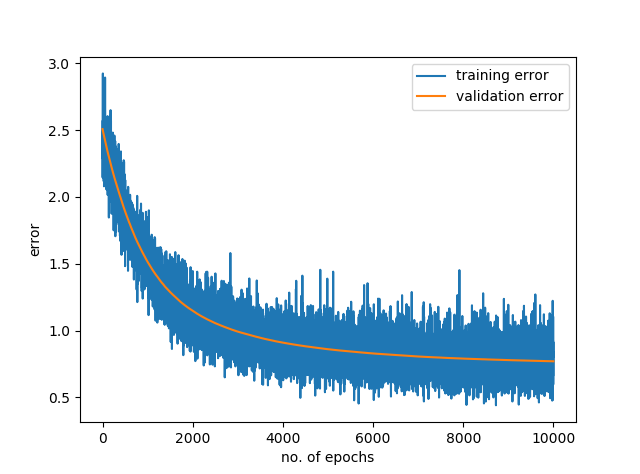
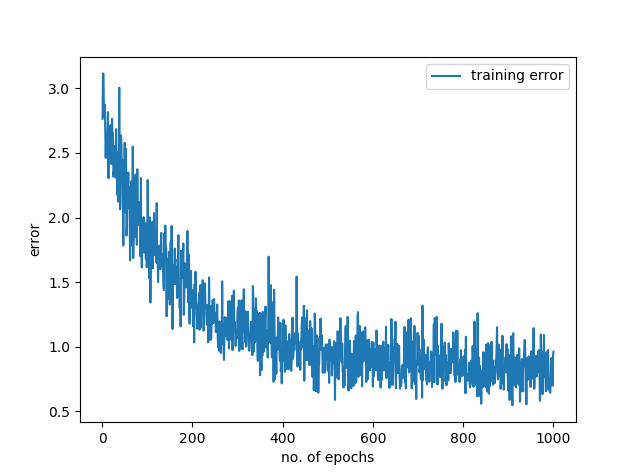
updates

diff --git a/assignment1/neural_net.py b/assignment1/neural_net.py
@@ -1,5 +1,5 @@
 import numpy as np
-import scipy.io as sio
+from scipy.io import loadmat
 import matplotlib.pyplot as plt
 
 class Layer:
@@ -186,7 +186,7 @@ class NeuralNetwork:
 		if(reg == 'l2'):
 			sum = 0
 			for i in range(self.n_layers):
-				sum  = sum+epsilon+ l*sum
+				sum  = sum + l*sum
 		elif(reg =='l1'):
 			sum = 0
 			for i in range(self.n_layers):
@@ -203,7 +203,7 @@ class NeuralNetwork:
 			delta1 = delta
 			o = o2
 
-	def train(self, X, y, batch = 32, n_epoch = 5, l = 0, reg = "none"):
+	def train(self, X, y, batch = 32, n_epoch = 5, l = 0, reg = "none", verbose=True):
 		#t_size = int(X.shape[0]*0.8)
 		t_size = X.shape[0]
 		X_train = X[:t_size, :]
@@ -228,7 +228,7 @@ class NeuralNetwork:
 			outputs = self.forwardPass(input_X.T, train = True)
 			# print (outputs)
 			self.backProp(input_y.T, outputs, reg=reg, l=l)
-			if (i%10 == 0):
+			if (i%10 == 0 and verbose):
 				train_error[int(i/10)], _ = self.costFunc(input_y.T, outputs, 0, 'none')
 				#train_acc[i] = accuracy(input_y, outputs.T)
 				#outputs_test = self.forwardPass(X_test.T, train = False)
@@ -272,7 +272,7 @@ class Dropout(Layer):
 			self.drop = self.drop.reshape(self.drop.shape[0],1)
 			return np.multiply(self.activate(self.z), self.drop)
 		else:
-			return self.activate(self.z) * self.prob
+			return self.activate(self.z) * (1-self.prob)
 
 	def backprop(self, delta1, rate, out, reg = "none", l = 0, cost = 'crossent'): 
 		delta = np.multiply(delta1, self.act_deriv(self.z, out)) # this is the real delta
@@ -293,7 +293,7 @@ def make_onehot(y):
 	return yoh
 
 def load_data(path):
-	data = sio.loadmat(path)
+	data = loadmat(path)
 	total_training_images = data['dataset'][0][0][0][0][0][0][:].astype(np.float32)
 	total_training_labels = data['dataset'][0][0][0][0][0][1][:]
 	classes = [10, 13, 16, 17, 18, 19, 20, 23, 24]
@@ -331,10 +331,10 @@ if __name__ == '__main__':
 	m = 9 # no of classes
 	lrate = 1e-3
 
-	neurons = [Dropout(0.5, D, 128, 'l_relu', alpha=0.01), Layer(128 ,m, 'softmax')]
-	NN = NeuralNetwork(2, D, m, cost = 'crossent', layers = neurons, rate = lrate)
+	neurons = [Layer(D ,m, 'softmax')]
+	NN = NeuralNetwork(1, D, m, cost = 'crossent', layers = neurons, rate = lrate)
 	labels, images, test_labels, test_images = load_data('assignment1/emnist-balanced.mat')
-	NN.train(images, labels, n_epoch = 10000, batch= 20)
+	NN.train(images, labels, n_epoch = 10000, batch= 30, reg="l2", l=0.1)
 	test_out = NN.predict(test_images)
 	error = accuracy(test_out, test_labels)
 	print (error,"%")

diff --git a/assignment1/hyperparameter_tuning.py b/assignment1/hyperparameter_tuning.py
@@ -1,0 +1,21 @@
+import numpy as np
+from scipy.io import loadmat
+import neural_net as net
+import matplotlib.pyplot as plt
+
+D = 784 # input dimension
+m = 9 # no of classes
+lrate = 1e-3
+
+labels, images, test_labels, test_images = net.load_data('assignment1/emnist-balanced.mat')
+
+neurons = [net.Layer(D ,m, 'softmax')]
+
+lrange = [0.03, 0.1, 0.3, 1, 3, 10]
+
+for l in lrange:
+	NN = net.NeuralNetwork(1, D, m, cost = 'crossent', layers = neurons, rate = lrate)
+	NN.train(images, labels, n_epoch = 10000, batch= 30, reg="l2", l=l, verbose = False)
+	test_out = NN.predict(test_images)
+	error = net.accuracy(test_out, test_labels)
+print (error,"%")
